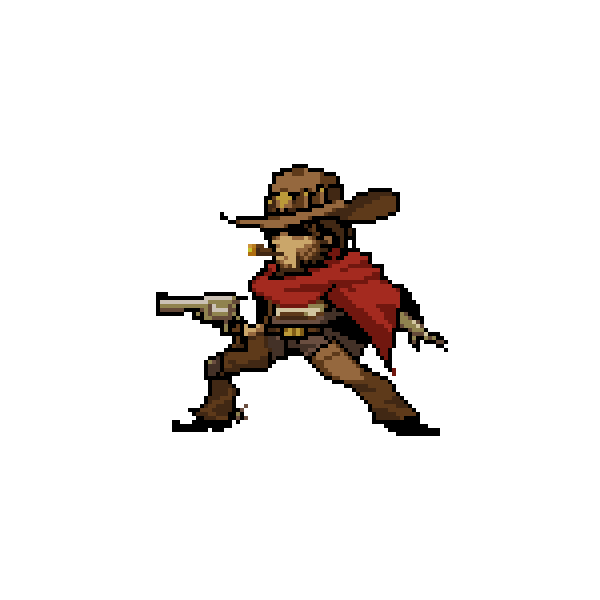
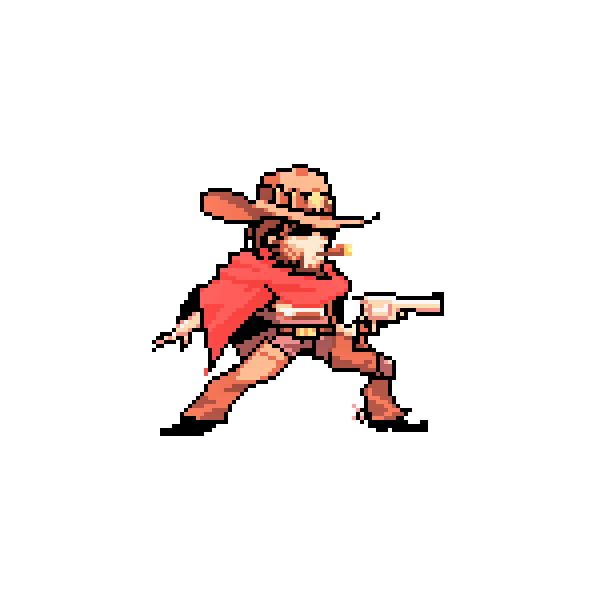
Add Mccree + New Background

Changed region(s): [[0.24, 0.27, 0.75, 0.75]]

diff --git a/core/src/com/mygdx/game/GameScreen.java b/core/src/com/mygdx/game/GameScreen.java
@@ -8,31 +8,27 @@ import com.badlogic.gdx.graphics.g2d.SpriteBatch;
 
 public class GameScreen extends ApplicationAdapter {
 	SpriteBatch batch;
-	Texture img;
+	Texture mccree;
+	Texture mccree2;
 	Texture bg;
 	
 	@Override
 	public void create () {
 		batch = new SpriteBatch();
-		img = new Texture("badlogic.jpg");
-		bg = new Texture("desert_1600.png");
-		
+		bg = new Texture("bg.jpg");
+		mccree = new Texture("Mccree.png");
+		mccree2 = new Texture("Mccree2.png");
 	}
 
 	@Override
 	public void render () {
-		Gdx.gl.glClearColor(1, 0, 0, 1);
+		Gdx.gl.glClearColor(1, 1, 1, 1);
 		Gdx.gl.glClear(GL20.GL_COLOR_BUFFER_BIT);
 		batch.begin();
-		batch.draw(bg,0,0);
-		batch.draw(img, 0, 0);
-
+		batch.draw(bg, 0, 0);
+		batch.draw(mccree, 0, 0);
+		batch.draw(mccree2, 1320, 0);
 		batch.end();
 	}
 	
-	@Override
-	public void dispose () {
-		batch.dispose();
-		img.dispose();
-	}
 }

diff --git a/desktop/src/com/mygdx/game/desktop/DesktopLauncher.java b/desktop/src/com/mygdx/game/desktop/DesktopLauncher.java
@@ -7,8 +7,8 @@ import com.mygdx.game.GameScreen;
 public class DesktopLauncher {
 	public static void main (String[] arg) {
 		LwjglApplicationConfiguration config = new LwjglApplicationConfiguration();
-        config.width = 1600;
-        config.height = 900;
+        config.width = 1920;
+        config.height = 800;
 		new LwjglApplication(new GameScreen(), config);
 	}
 }
